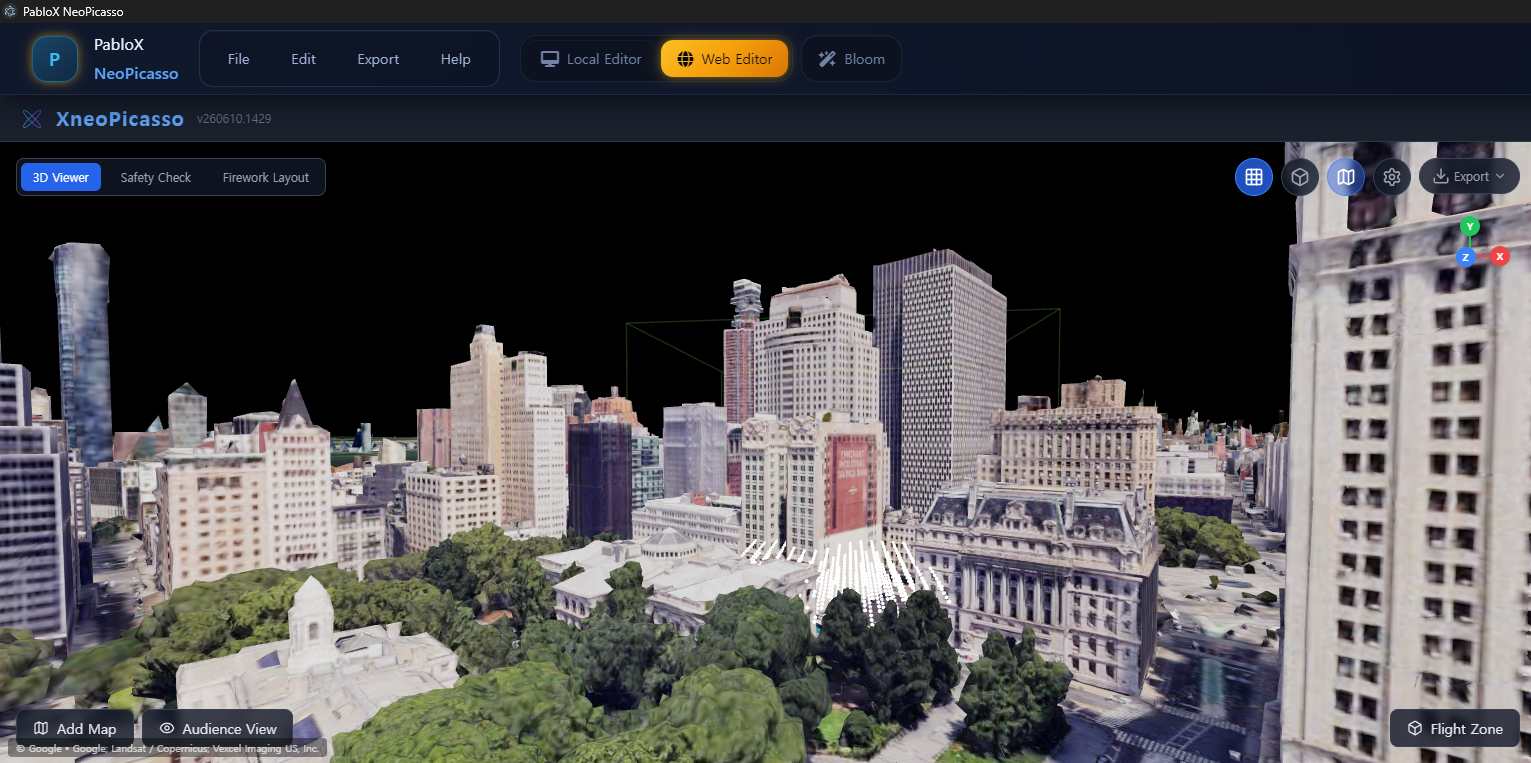
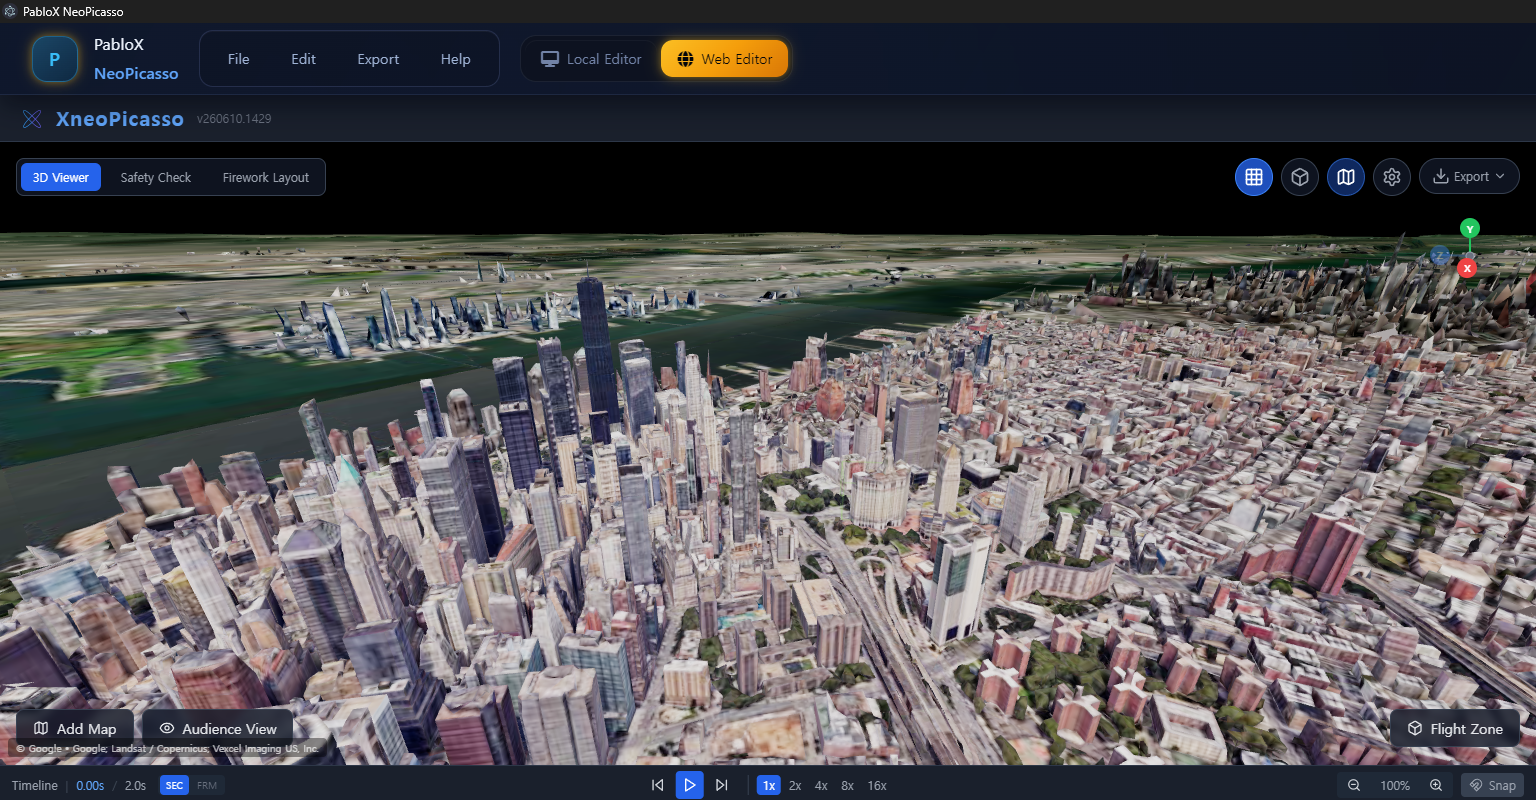
Use 3D map replacement asset

diff --git a/index.html b/index.html
@@ -761,8 +761,8 @@
                   </div>
                   <p>3D Terrain을 선택하면 좌표계가 보정 된 입체 지형 데이터를 불러올 수 있습니다.</p>
                   <p>테스트로 넣어본거라 아직 다듬어야 합니다. 다음 패치 적용예정 (예: New York 등 사용 가능, 한국은 사용불가)</p>
-                  <button class="change-image" type="button" data-image="assets/3dmap.png" data-alt="3D Terrain 입체 지형 데이터 화면">
-                    <img src="assets/3dmap.png" alt="3D Terrain 입체 지형 데이터 화면">
+                  <button class="change-image" type="button" data-image="assets/3dmap2.png" data-alt="3D Terrain 입체 지형 데이터 화면">
+                    <img src="assets/3dmap2.png" alt="3D Terrain 입체 지형 데이터 화면">
                     <span class="image-caption">3D Terrain 입체 지형 데이터 · 클릭하여 확대</span>
                   </button>
                 </div>